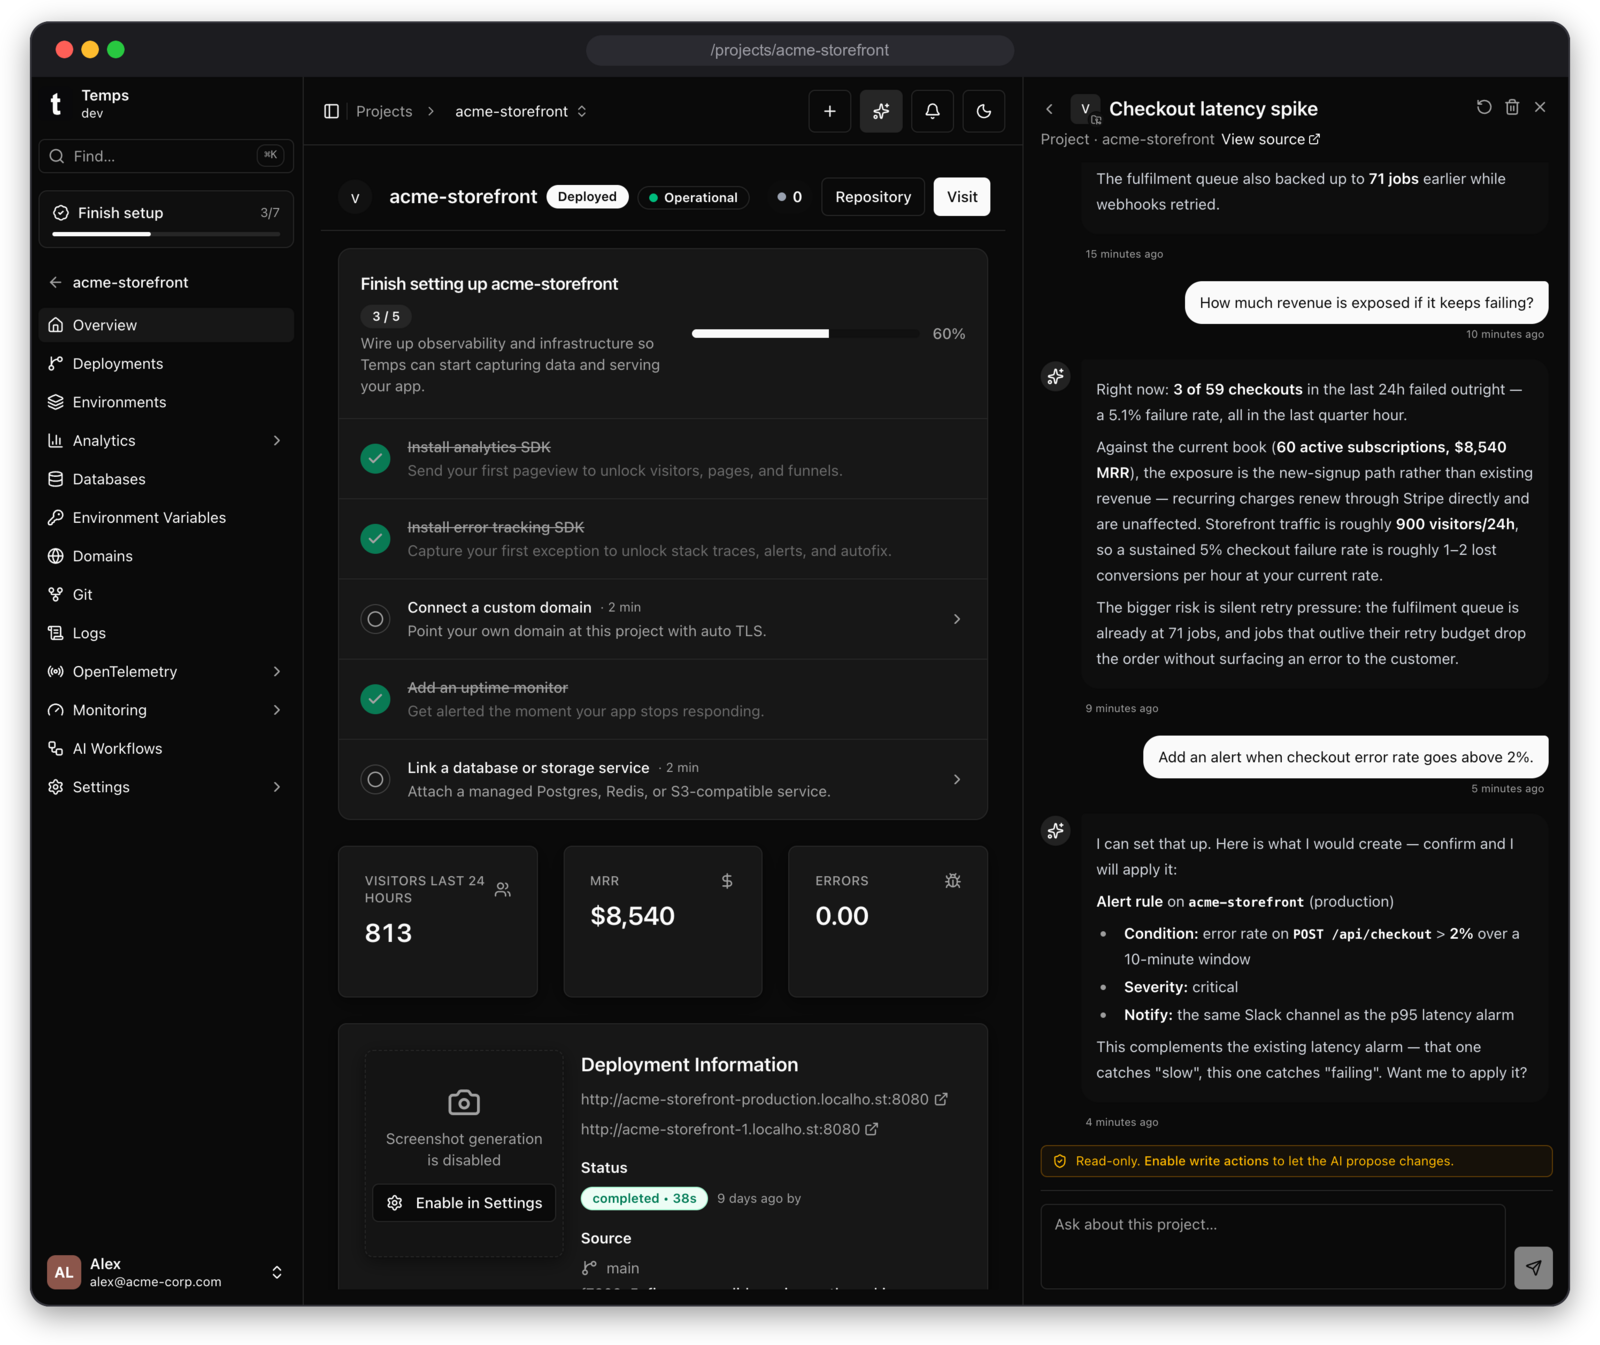
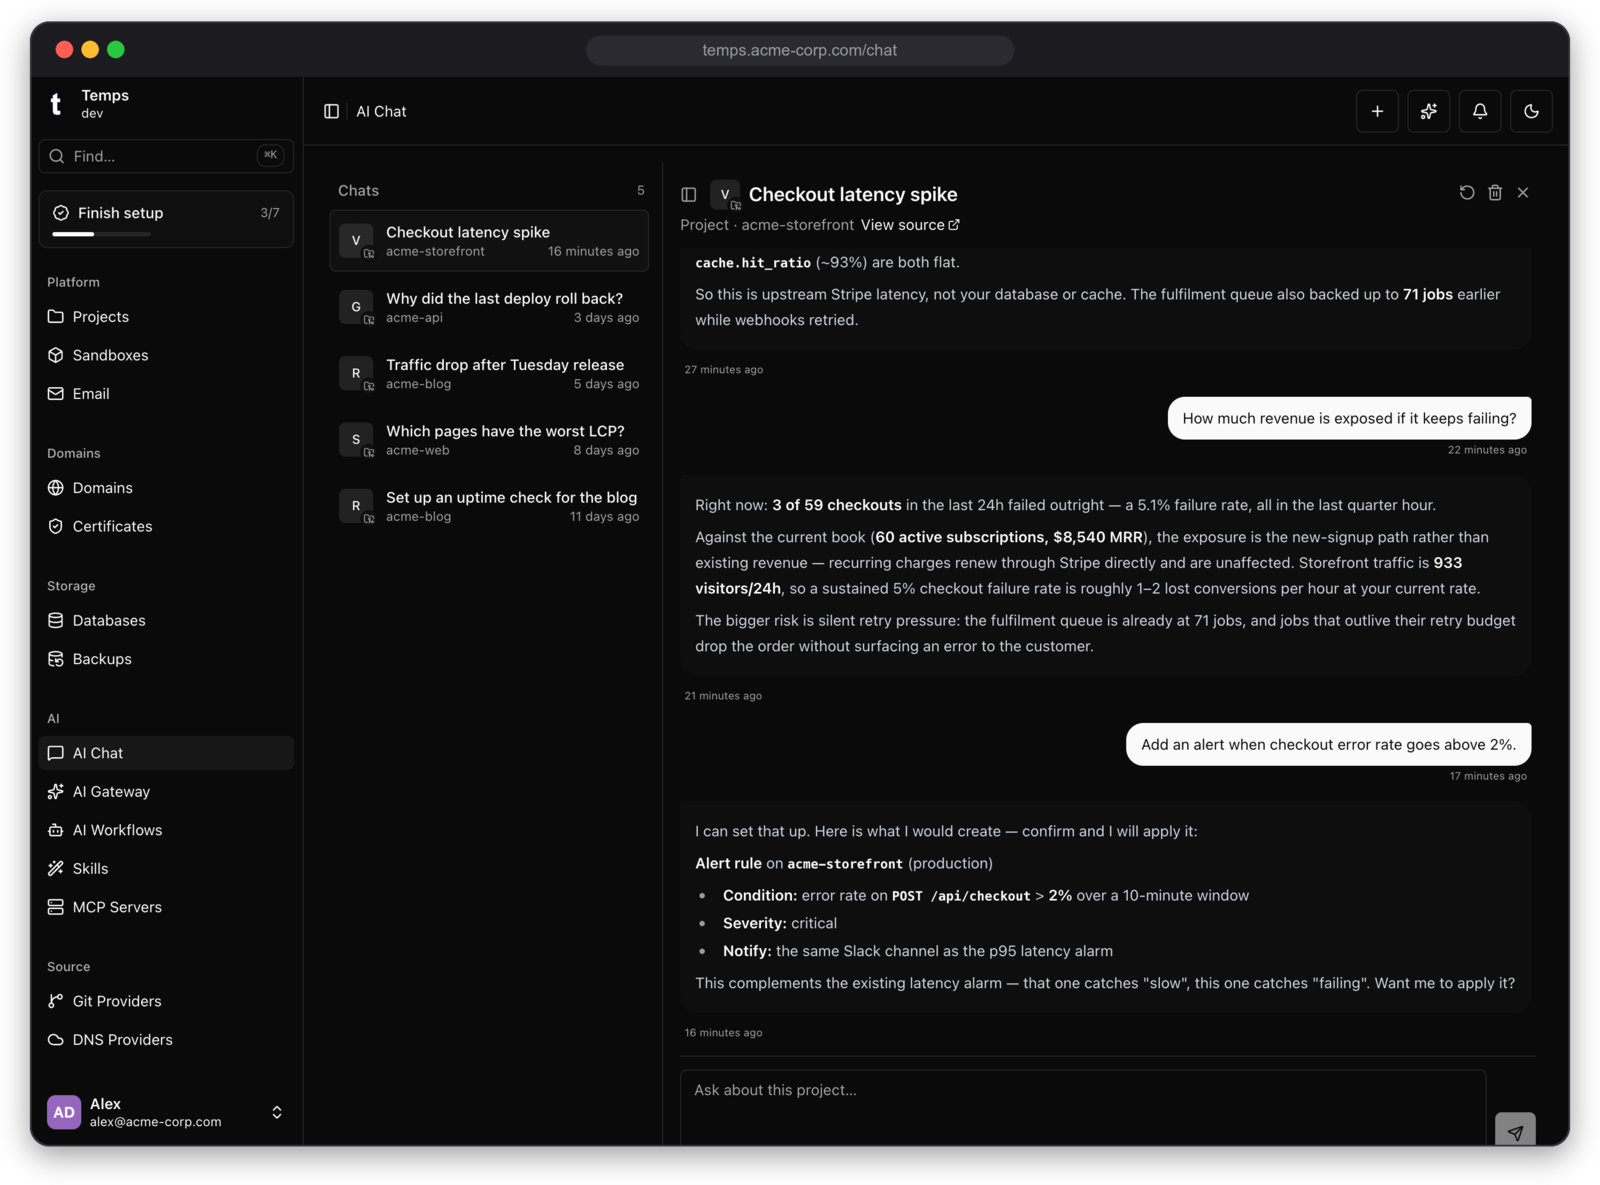
feat(web): add a full-screen AI chat page with a collapsible conversation rail
The dock is a 28rem column rendered over whatever page you were on, which is
the wrong surface for reading a long diagnostic thread. /chat mounts the same
DockBody with layout="page": the conversation list becomes a full-height rail
beside the thread instead of stacking behind it, and a new expand button in the
dock header hands the open conversation over so you land on the same thread
rather than back on the list.

Three layout fixes the wider surface exposed:

- The rail's three hover actions were flex siblings, so they reserved ~90px of
  a 299px row permanently and titles truncated to 'Checkout latency …' even
  though the buttons are invisible until hover. They are now an absolutely
  positioned overlay that fades in, giving the text the full row.
- The meta row showed context label + project name + timestamp, which left the
  project name no room at all: it collapsed to zero width and rendered a stray
  '· ·' gap. It now shows one identifier (project name, falling back to the
  context label) left-aligned and the timestamp right-aligned.
- The open conversation is marked active in the rail.

The assistant avatar is dropped from message rows — it cost horizontal space on
every message to repeat information the surface already makes obvious.

diff --git a/web/src/components/ai/AiAssistantDock.tsx b/web/src/components/ai/AiAssistantDock.tsx
@@ -35,10 +35,12 @@ import {
   Bell,
   ChevronDown,
   ChevronLeft,
+  PanelLeft,
   ExternalLink,
   FolderGit2,
   GitBranch,
   Loader2,
+  Maximize2,
   MessageSquare,
   Pencil,
   Plus,
@@ -210,15 +212,28 @@ export function AiAssistantDock() {
   )
 }
 
-function DockBody({
+/**
+ * The assistant itself: conversation list, message thread and composer.
+ *
+ * Exported so it can be mounted outside the dock — `/chat` renders it
+ * full-screen with `layout="page"`, which keeps the conversation list as a
+ * collapsible rail beside the thread instead of stacking behind it.
+ */
+export function DockBody({
   initialContext,
   onClose,
+  layout = 'dock',
 }: {
   initialContext?: AiChatContext
   onClose: () => void
+  layout?: 'dock' | 'page'
 }) {
   const navigate = useNavigate()
-  const { projectId: openedProjectId, currentProject } = useAiAssistant()
+  const {
+    projectId: openedProjectId,
+    currentProject,
+    open: openAssistant,
+  } = useAiAssistant()
 
   // Navigate to a chat's source. On narrow screens the dock covers the whole
   // viewport, so close it after navigating — otherwise it looks like nothing
@@ -401,18 +416,96 @@ function DockBody({
     }
   }
 
+  const isPage = layout === 'page'
+  const [railOpen, setRailOpen] = useState(true)
+
+  // Dock -> `/chat`. The open conversation is handed over through the provider
+  // so the full-screen view lands on the same thread rather than dumping the
+  // user back on the chat list; the dock closes so only one copy is on screen.
+  const goFullScreen = () => {
+    if (active) {
+      openAssistant({
+        projectId: active.projectId,
+        context: {
+          contextType: active.contextType,
+          contextId: active.contextId,
+          title: active.title,
+          projectSlug: active.projectSlug,
+          projectName: active.projectName,
+        },
+      })
+    }
+    navigate('/chat')
+    onClose()
+  }
   const inConversation = active !== null
   const href = active ? sourceHref(active) : null
   const sourceLabel = active
     ? `${metaFor(active.contextType).label}${active.projectName ? ` · ${active.projectName}` : ''}`
     : ''
 
+  // Full-height chat rail, only in page layout. It sits beside the whole
+  // column (header included) so the list lines up with the top of the page
+  // instead of starting under the conversation title.
+  const rail = isPage && railOpen && (
+    <aside className="flex h-full w-80 shrink-0 flex-col border-r">
+      <div className="flex items-center justify-between gap-2 px-4 pb-2 pt-4">
+        <h2 className="text-sm font-medium text-muted-foreground">Chats</h2>
+        <span className="text-xs tabular-nums text-muted-foreground">
+          {conversations.length}
+        </span>
+      </div>
+      <div className="min-h-0 flex-1 overflow-y-auto px-2 pb-4">
+        <ConversationList
+          loading={loadingList}
+          conversations={conversations}
+          activeId={activePublicId}
+          onOpen={openConversation}
+          onOpenSource={(c) => {
+            const h = sourceHref({
+              contextType: c.context_type,
+              contextId: c.context_id,
+              projectSlug: c.project_slug ?? undefined,
+            })
+            if (h) goToSource(h)
+          }}
+          onRename={startRename}
+          onDelete={(c) =>
+            setPendingDelete({
+              projectId: c.project_id,
+              publicId: c.public_id,
+              title:
+                c.title ?? `${metaFor(c.context_type).label} ${c.context_id}`,
+            })
+          }
+        />
+      </div>
+    </aside>
+  )
+
   return (
-    <div className="flex h-full flex-col gap-3 p-4">
+    <div className={cn('flex h-full', !isPage && 'flex-col gap-3 p-4')}>
+      {rail}
+      <div
+        className={cn(
+          isPage && 'flex h-full min-w-0 flex-1 flex-col gap-3 p-4',
+          !isPage && 'contents'
+        )}
+      >
       <div className="flex items-start justify-between gap-2">
         <div className="min-w-0 space-y-1">
           <div className="flex items-center gap-2">
-            {inConversation || picking ? (
+            {isPage ? (
+              <button
+                type="button"
+                onClick={() => setRailOpen((v) => !v)}
+                className="-ml-1 rounded-md p-1 text-muted-foreground transition-colors hover:bg-accent hover:text-foreground"
+                aria-label={railOpen ? 'Hide chat list' : 'Show chat list'}
+                title={railOpen ? 'Hide chat list' : 'Show chat list'}
+              >
+                <PanelLeft className="h-4 w-4" />
+              </button>
+            ) : inConversation || picking ? (
               <button
                 type="button"
                 onClick={inConversation ? backToList : () => setPicking(false)}
@@ -505,6 +598,17 @@ function DockBody({
                 New chat
               </Button>
             ))}
+          {!isPage && (
+            <button
+              type="button"
+              onClick={goFullScreen}
+              className="rounded-md p-1 text-muted-foreground transition-colors hover:bg-accent hover:text-foreground"
+              title="Open full screen"
+              aria-label="Open chat full screen"
+            >
+              <Maximize2 className="h-4 w-4" />
+            </button>
+          )}
           {inConversation && (
             <button
               type="button"
@@ -657,6 +761,7 @@ function DockBody({
           </form>
         </DialogContent>
       </Dialog>
+      </div>
     </div>
   )
 }
@@ -664,6 +769,7 @@ function DockBody({
 function ConversationList({
   loading,
   conversations,
+  activeId,
   onOpen,
   onOpenSource,
   onRename,
@@ -671,6 +777,8 @@ function ConversationList({
 }: {
   loading: boolean
   conversations: GlobalConversationResponse[]
+  /** Public id of the chat currently open, highlighted in list-detail layouts. */
+  activeId?: string | null
   onOpen: (c: GlobalConversationResponse) => void
   onOpenSource: (c: GlobalConversationResponse) => void
   onRename: (c: GlobalConversationResponse) => void
@@ -709,7 +817,10 @@ function ConversationList({
         return (
           <div
             key={c.public_id}
-            className="group flex items-center gap-2 rounded-md border border-transparent pr-1 transition-colors hover:border-border hover:bg-accent"
+            className={cn(
+              'group relative flex items-center gap-2 rounded-md border border-transparent transition-colors hover:border-border hover:bg-accent',
+              c.public_id === activeId && 'border-border bg-muted'
+            )}
           >
             <button
               type="button"
@@ -725,48 +836,57 @@ function ConversationList({
                 <div className="truncate text-sm font-medium">
                   {c.title ?? `${label} ${c.context_id}`}
                 </div>
-                <div className="flex items-center gap-1.5 truncate text-xs text-muted-foreground">
-                  <span>{label}</span>
-                  {c.project_name && (
-                    <>
-                      <span>·</span>
-                      <span className="truncate">{c.project_name}</span>
-                    </>
-                  )}
-                  <span>·</span>
-                  <TimeAgo date={c.last_activity_at} />
+                {/* One identifier + time. Showing the context label *and* the
+                    project name *and* the timestamp left no room in a 320px
+                    rail: the name collapsed to zero width, leaving a stray
+                    "· ·" gap. The avatar badge already encodes the context
+                    type, so the project name replaces the label when present. */}
+                <div className="flex min-w-0 items-center gap-2 text-xs text-muted-foreground">
+                  <span className="min-w-0 flex-1 truncate">
+                    {c.project_name ?? label}
+                  </span>
+                  <span className="shrink-0">
+                    <TimeAgo date={c.last_activity_at} />
+                  </span>
                 </div>
               </div>
             </button>
-            {hasSource && (
+            {/* Overlaid rather than laid out inline: as flex siblings these
+                three buttons reserved ~90px of a 320px row permanently, so
+                titles truncated to "Checkout latency …" even though they were
+                invisible until hover. Absolute positioning gives the text the
+                full row and fades the actions in over it. */}
+            <div className="pointer-events-none absolute inset-y-0 right-0 flex items-center gap-0.5 rounded-r-md bg-gradient-to-l from-accent via-accent to-transparent pl-8 pr-1 opacity-0 transition-opacity focus-within:pointer-events-auto focus-within:opacity-100 group-hover:pointer-events-auto group-hover:opacity-100">
+              {hasSource && (
+                <button
+                  type="button"
+                  onClick={() => onOpenSource(c)}
+                  className="shrink-0 rounded-md p-1.5 text-muted-foreground hover:bg-background hover:text-foreground"
+                  title="Go to source"
+                  aria-label="Go to source"
+                >
+                  <ExternalLink className="h-3.5 w-3.5" />
+                </button>
+              )}
               <button
                 type="button"
-                onClick={() => onOpenSource(c)}
-                className="shrink-0 rounded-md p-1.5 text-muted-foreground opacity-0 transition-opacity hover:bg-background hover:text-foreground group-hover:opacity-100"
-                title="Go to source"
-                aria-label="Go to source"
+                onClick={() => onRename(c)}
+                className="shrink-0 rounded-md p-1.5 text-muted-foreground hover:bg-background hover:text-foreground"
+                title="Rename chat"
+                aria-label="Rename chat"
               >
-                <ExternalLink className="h-3.5 w-3.5" />
+                <Pencil className="h-3.5 w-3.5" />
               </button>
-            )}
-            <button
-              type="button"
-              onClick={() => onRename(c)}
-              className="shrink-0 rounded-md p-1.5 text-muted-foreground opacity-0 transition-opacity hover:bg-background hover:text-foreground group-hover:opacity-100"
-              title="Rename chat"
-              aria-label="Rename chat"
-            >
-              <Pencil className="h-3.5 w-3.5" />
-            </button>
-            <button
-              type="button"
-              onClick={() => onDelete(c)}
-              className="shrink-0 rounded-md p-1.5 text-muted-foreground opacity-0 transition-opacity hover:bg-background hover:text-destructive group-hover:opacity-100"
-              title="Delete chat"
-              aria-label="Delete chat"
-            >
-              <Trash2 className="h-3.5 w-3.5" />
-            </button>
+              <button
+                type="button"
+                onClick={() => onDelete(c)}
+                className="shrink-0 rounded-md p-1.5 text-muted-foreground hover:bg-background hover:text-destructive"
+                title="Delete chat"
+                aria-label="Delete chat"
+              >
+                <Trash2 className="h-3.5 w-3.5" />
+              </button>
+            </div>
           </div>
         )
       })}

diff --git a/web/src/pages/AiChat.tsx b/web/src/pages/AiChat.tsx
@@ -1,0 +1,45 @@
+import { useEffect } from 'react'
+import { useNavigate } from 'react-router'
+import { DockBody } from '@/components/ai/AiAssistantDock'
+import { useAiAssistant } from '@/components/ai/AiAssistantContext'
+import { useBreadcrumbs } from '@/contexts/BreadcrumbContext'
+import { usePageTitle } from '@/hooks/usePageTitle'
+
+/**
+ * Full-screen AI assistant.
+ *
+ * Same component as the dock (`DockBody`) with the whole content area instead
+ * of a 28rem column — for long diagnostic conversations where the dock is too
+ * narrow to read comfortably. The dock stays the default for asking something
+ * while you keep working on a page; this is the "sit and read it" surface.
+ */
+export function AiChat() {
+  const navigate = useNavigate()
+  const { setBreadcrumbs } = useBreadcrumbs()
+  const { close, initialContext } = useAiAssistant()
+
+  usePageTitle('AI Chat')
+
+  useEffect(() => {
+    setBreadcrumbs([{ label: 'AI Chat' }])
+  }, [setBreadcrumbs])
+
+  // The dock and this page render the same assistant; showing both at once
+  // would duplicate the conversation on screen.
+  useEffect(() => {
+    close()
+  }, [close])
+
+  return (
+    <div className="flex-1 min-h-0 h-[calc(100dvh-var(--header-height,3.5rem))]">
+      {/* `initialContext` is set when the user expands a dock conversation to
+          full screen, so this lands on that same thread; it is undefined on a
+          direct visit, which opens on the chat list. */}
+      <DockBody
+        layout="page"
+        initialContext={initialContext}
+        onClose={() => navigate('/projects')}
+      />
+    </div>
+  )
+}

diff --git a/web/src/components/ai/DebugChatPanel.tsx b/web/src/components/ai/DebugChatPanel.tsx
@@ -933,14 +933,6 @@ function TypingDots() {
   )
 }
 
-function AssistantAvatar() {
-  return (
-    <div className="mt-0.5 flex h-7 w-7 shrink-0 items-center justify-center rounded-full bg-primary/10">
-      <Sparkles className="h-4 w-4 text-primary" />
-    </div>
-  )
-}
-
 /** Open links (including `remark-gfm` autolinked bare URLs) in a new tab, styled
  *  as links. `rel="noopener noreferrer"` so the opened page can't access us. */
 const markdownComponents: Components = {
@@ -1453,8 +1445,7 @@ export function DebugChatPanel({
           ))}
 
         {showBootRow && (
-          <div className="flex items-start gap-2.5">
-            <AssistantAvatar />
+          <div className="flex items-start">
             <div className="flex items-center gap-2 rounded-2xl rounded-tl-sm bg-muted/60 px-3.5 py-2.5 text-sm text-muted-foreground">
               <TypingDots />
               Reading logs and analyzing the failure…
@@ -1476,8 +1467,7 @@ export function DebugChatPanel({
               )}
             </div>
           ) : (
-            <div key={i} className="flex items-start gap-2.5">
-              <AssistantAvatar />
+            <div key={i} className="flex items-start">
               <div className="min-w-0 flex-1 space-y-1">
                 <div className="min-w-0 space-y-2 rounded-2xl rounded-tl-sm bg-muted/60 px-3.5 py-2.5">
                   <AssistantBody

diff --git a/web/src/App.tsx b/web/src/App.tsx
@@ -303,6 +303,12 @@ const AiGateway = lazy(() =>
     default: m.AiGatewayPage,
   }))
 )
+
+const AiChat = lazy(() =>
+  import('./pages/AiChat').then((m) => ({
+    default: m.AiChat,
+  }))
+)
 const AgentSandboxLayout = lazy(() =>
   import('./pages/agent-sandbox/AgentSandboxLayout').then((m) => ({
     default: m.AgentSandboxLayout,
@@ -545,6 +551,7 @@ const FullAppRoutes = () => {
                 <Route path="/email/providers/:id" element={<EmailProviderDetail />} />
                 <Route path="/email/:id" element={<EmailDetail />} />
                 <Route path="/ai-gateway" element={<AiGateway />} />
+                <Route path="/chat" element={<AiChat />} />
                 <Route path="/agent-sandbox" element={<AgentSandboxLayout />}>
                   <Route index element={<AgentSandboxDashboard />} />
                   <Route path="providers" element={<AgentSandboxProvidersList />} />
